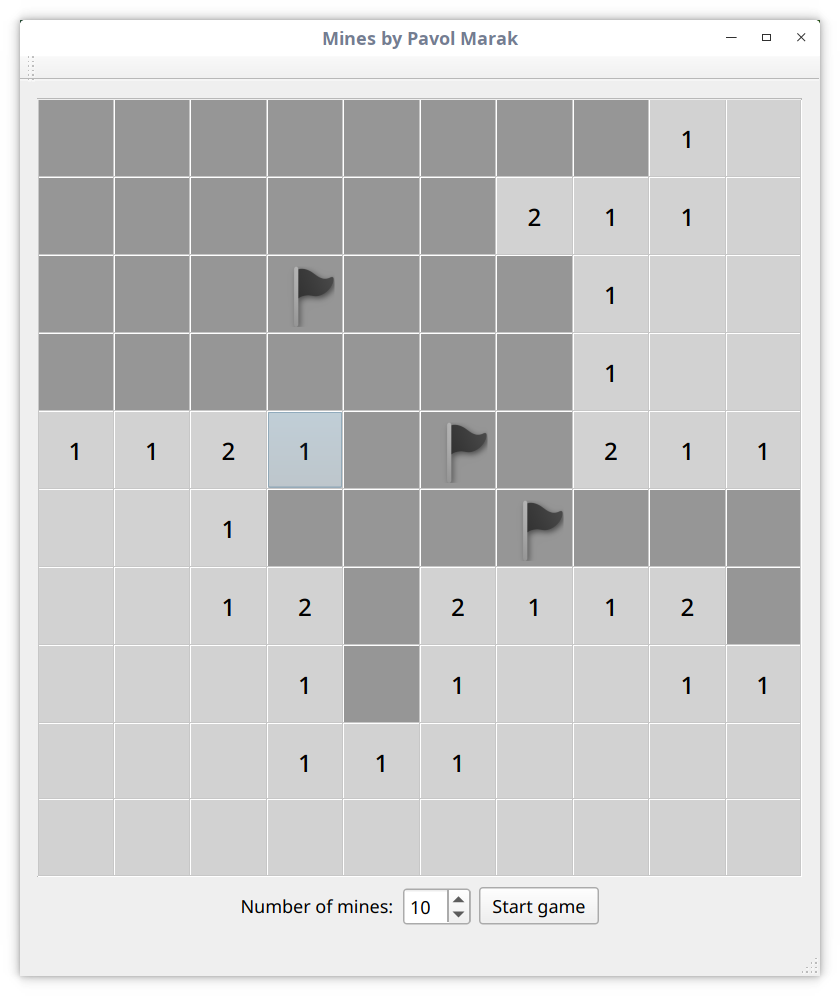
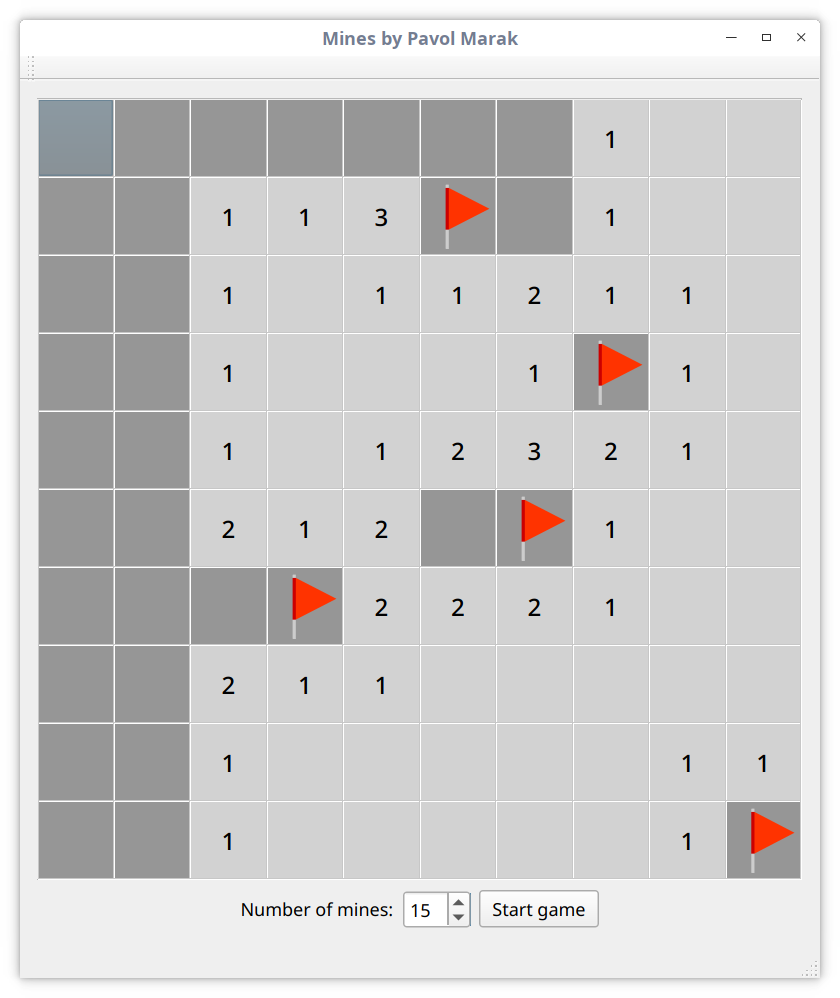
Game is now fully playable, but for now it supports only 10x10 grid size.

diff --git a/mines.cpp b/mines.cpp
@@ -11,6 +11,11 @@ Mines::Mines(QWidget *parent) :
     ui(new Ui::Mines)
 {
     ui->setupUi(this);
+    QObject::connect(this,
+                     SIGNAL(cellsRevealedAutomatically(int)),
+                     ui->tableWidget,
+                     SLOT(cellsRevealedAutomaticallySlot(int)));
+
     ui->tableWidget->setVisible(false);
     this->ready = false;
     for(int j=0; j< ui->tableWidget->rowCount();j++){
@@ -27,7 +32,7 @@ Mines::Mines(QWidget *parent) :
         for(int i=0; i<ui->tableWidget->columnCount();i++){
             ui->tableWidget->setItem(j,i,new QTableWidgetItem(""));
             ui->tableWidget->item(j,i)->setBackgroundColor(QColor(150,150,150));
-            ui->tableWidget->item(j,i)->setWhatsThis("false");
+            ui->tableWidget->item(j,i)->setWhatsThis("noflag-nomine-novisit");
         }
     }
     qApp->processEvents();
@@ -53,6 +58,7 @@ void Mines::placeMines(int count)
         QPoint point(qrand()%ui->tableWidget->columnCount(), qrand()%ui->tableWidget->rowCount());
         this->mines.insert(point);
         this->grid[point.y()+1][point.x()+1]=MINE;
+        ui->tableWidget->item(point.y(),point.x())->setWhatsThis("noflag-mine-novisit");
         qDebug() << no++ << " : " << point;
     }
 }
@@ -99,6 +105,7 @@ void Mines::clearVisibleGrid()
 {
     for(int i=0; i< ui->tableWidget->rowCount();i++){
         for(int j=0; j<ui->tableWidget->columnCount();j++){
+            ui->tableWidget->item(i,j)->setWhatsThis("noflag-nomine-novisit");
             if(ui->tableWidget->cellWidget(i,j)){
                 ui->tableWidget->removeCellWidget(i,j);
             }
@@ -112,36 +119,53 @@ void Mines::clearVisibleGrid()
 
 void Mines::revealEmptyArea(int row, int col)
 {
-    QList<QPoint> emptyCells;
-    QList<QPoint> visitedCells;
-    emptyCells.push_back(QPoint(col,row));
+    QList<QPoint> unvisitedEmptyCells;
+    QList<QPoint> visitedEmptyCells;
+    unvisitedEmptyCells.push_back(QPoint(col,row));
     int new_row, new_col;
     int complexity = 0;
-    while(!emptyCells.isEmpty()){
+    int emptyCellsNo=0;
+    int unvisitedCellsNo=0;
+    while(!unvisitedEmptyCells.isEmpty()){
+        // exploring 8-connected neighborhood of the selected empty cell
         for(int i = 0; i < 3; i++){
             for(int j = 0; j < 3; j++){
-                if(visitedCells.indexOf(emptyCells.first())==-1){
-                    ui->tableWidget->removeCellWidget(new_row, new_col);
-                    new_row = emptyCells.first().y()-1+i;
-                    new_col = emptyCells.first().x()-1+j;
-                    if(ui->tableWidget->item(new_row, new_col)){
+                new_row = unvisitedEmptyCells.first().y()-1+i;
+                new_col = unvisitedEmptyCells.first().x()-1+j;
+                if(ui->tableWidget->item(new_row, new_col)){
+                    // if the cell was not visited
+                    if(ui->tableWidget->item(new_row, new_col)->whatsThis() == "noflag-nomine-novisit"){
+                        qDebug() << "UNVISITED CELL FOUND: " << ++unvisitedCellsNo;
+                        ui->tableWidget->removeCellWidget(new_row, new_col); // to remove flags
+                        // check if not out of bounds
+
+                        // if another empty cell is found
+                        if(this->grid[new_row+1][new_col+1]==0 && visitedEmptyCells.indexOf(unvisitedEmptyCells.first(),0)==-1){
+                            unvisitedEmptyCells.push_back(QPoint(new_col,new_row));
+                            qDebug() << "NEW EMPTY CELL FOUND: " << ++emptyCellsNo;
+
+                        }
                         this->makeItemVisible(new_row, new_col);
                         qApp->processEvents();
-                        if(this->grid[new_row+1][new_col+1]==0){
-                            emptyCells.push_back(QPoint(new_col,new_row));
-                        }
+                        complexity++;
                     }
                 }
             }
         }
-        complexity++;
-        visitedCells.push_back(emptyCells.first());
-        emptyCells.removeFirst();
+
+        // put the current empty cell to the list of visited empty cells
+        visitedEmptyCells.push_back(unvisitedEmptyCells.first());
+        // remove the current empty cell from the list of unvisited empty cells
+        unvisitedEmptyCells.removeFirst();
     }
+
+    qDebug() << "Sending complexity: " << complexity;
+    emit cellsRevealedAutomatically(complexity);
 }
 
 void Mines::makeItemVisible(int row, int col)
 {
+    ui->tableWidget->item(row, col)->setWhatsThis("noflag-nomine-visit");
     if(this->grid[row+1][col+1]>0){
         ui->tableWidget->item(row, col)->setText(QString::number(this->grid[row+1][col+1]));
     }
@@ -150,9 +174,20 @@ void Mines::makeItemVisible(int row, int col)
     ui->tableWidget->item(row, col)->setBackgroundColor(QColor(210,210,210));
 }
 
+void Mines::clearEverything()
+{
+    for(int i=0; i < GRID_HEIGHT; i++){
+        for(int j=0; j < GRID_WIDTH; j++){
+            this->grid[i+1][j+1]=-1;
+        }
+    }
+    this->clearVisibleGrid();
+}
+
 void Mines::on_tableWidget_itemClicked(QTableWidgetItem *item)
 {
     if(this->ready==true){
+        // if a user clicks on a mine game ends
         if(this->grid[item->row()+1][item->column()+1]==MINE){
             qDebug() << "MINE";
             QLabel* wi = new QLabel();
@@ -163,24 +198,24 @@ void Mines::on_tableWidget_itemClicked(QTableWidgetItem *item)
             QMessageBox::about(this, "Mines", "Game Over");
             ui->tableWidget->setEnabled(false);
         }
-        // if a user clicks on empty cell whole empty area gets revealed
+        // if a user clicks on empty cell, a whole empty area gets revealed
         else if(this->grid[item->row()+1][item->column()+1]==0){
             this->revealEmptyArea(item->row(),item->column());
         }
+        // if a user clicks on a cell with mine number, the cell is revealed
         else{
             this->makeItemVisible(item->row(), item->column());
+            ui->tableWidget->noMineCounter--;
         }
+        item->setWhatsThis("noflag-nomine-visit");
     }
 }
 
 void Mines::on_start_game_button_clicked()
 {
-    for(int i=0; i < GRID_HEIGHT; i++){
-        for(int j=0; j < GRID_WIDTH; j++){
-            this->grid[i+1][j+1]=-1;
-        }
-    }
-    this->clearVisibleGrid();
+    ui->tableWidget->mineCounter=0;
+    ui->tableWidget->noMineCounter=GRID_HEIGHT*GRID_WIDTH;
+    this->clearEverything();
     this->placeMines(ui->noMinesSpinBox->value());
     this->placeMineNumbers();
     ui->tableWidget->setEnabled(true);

diff --git a/mytable.cpp b/mytable.cpp
@@ -2,31 +2,87 @@
 
 MyTable::MyTable(QWidget *)
 {
+    this->mineCounter=0;
+    this->noMineCounter=GRID_HEIGHT*GRID_WIDTH;
+}
+
+MyTable::~MyTable()
+{
 
 }
 
-void MyTable::mousePressEvent(QMouseEvent *e)
+void MyTable::mousePressEvent(QMouseEvent *event)
 {
-    QTableWidgetItem * itClicked = this->itemAt(e->pos());
-    if(e->button()==Qt::LeftButton){
-        if(itClicked->whatsThis() == "false"){
+    QTableWidgetItem * itClicked = this->itemAt(event->pos());
+    if(event->button()==Qt::LeftButton){
+        itClicked->setSelected(false);
+        if(itClicked->whatsThis() == "noflag-nomine-novisit"){
            emit itemClicked(itClicked);
+        }
+        else if(itClicked->whatsThis() == "noflag-mine-novisit"){
+            itClicked->setWhatsThis("noflag-mine-visit");
+            emit itemClicked(itClicked);
         }
 
     }
-    else if(e->button()==Qt::RightButton){
-        if(itClicked->whatsThis() == "true"){
+    else if(event->button()==Qt::RightButton){
+        if(itClicked->whatsThis() == "flag-nomine-novisit"){
             this->removeCellWidget(itClicked->row(),itClicked->column());
-            itClicked->setWhatsThis("false");
+            itClicked->setWhatsThis("noflag-nomine-novisit");
         }
-        else{
+        else if(itClicked->whatsThis() == "flag-mine-novisit"){
+            this->removeCellWidget(itClicked->row(),itClicked->column());
+            itClicked->setWhatsThis("noflag-mine-novisit");
+            this->mineCounter--;
+        }
+        else if(itClicked->whatsThis() == "noflag-nomine-novisit"){
             QLabel* wi;
             wi = new QLabel();
             wi->setPixmap(QPixmap(qApp->applicationDirPath() + "/flag.png"));
             wi->setScaledContents(true);
             this->setCellWidget(itClicked->row(),itClicked->column(),wi);
-            itClicked->setWhatsThis("true");
+            itClicked->setWhatsThis("flag-nomine-novisit");
         }
+        // user detected a mine in the field
+        else if(itClicked->whatsThis() == "noflag-mine-novisit"){
+            QLabel* wi;
+            wi = new QLabel();
+            wi->setPixmap(QPixmap(qApp->applicationDirPath() + "/flag.png"));
+            wi->setScaledContents(true);
+            this->setCellWidget(itClicked->row(),itClicked->column(),wi);
+            itClicked->setWhatsThis("flag-mine-novisit");
+            this->mineCounter++;
+        }
+    }
+    qDebug() << "Nomines found: " << this->noMineCounter;
+    qDebug() << "Mines found: " << this->mineCounter;
+    if(this->mineCounter == this->noMineCounter){
+        qDebug() << "You made it.";
+        QMessageBox::about(this,"Congratulations", "You made it.");
+
+    }
+}
+
+void MyTable::mouseMoveEvent(QMouseEvent *event)
+{
+    QTableWidgetItem * itClicked = this->itemAt(event->pos());
+    itClicked->setSelected(false);
+}
+
+void MyTable::mouseReleaseEvent(QMouseEvent *event)
+{
+    QTableWidgetItem * itClicked = this->itemAt(event->pos());
+    itClicked->setSelected(false);
+}
+
+void MyTable::cellsRevealedAutomaticallySlot(int number)
+{
+    this->noMineCounter-=number;
+    qDebug() << "Nomines found: " << this->noMineCounter;
+    qDebug() << "Mines found: " << this->mineCounter;
+    if(this->mineCounter == this->noMineCounter){
+        qDebug() << "You made it.";
+        QMessageBox::about(this,"Congratulations", "You made it.");
     }
 
 }

diff --git a/ui_mines.h b/ui_mines.h
@@ -48,7 +48,7 @@ public:
     {
         if (Mines->objectName().isEmpty())
             Mines->setObjectName(QStringLiteral("Mines"));
-        Mines->resize(534, 614);
+        Mines->resize(534, 615);
         QSizePolicy sizePolicy(QSizePolicy::Preferred, QSizePolicy::Preferred);
         sizePolicy.setHorizontalStretch(0);
         sizePolicy.setVerticalStretch(0);
@@ -122,7 +122,7 @@ public:
         tableWidget->setVerticalScrollBarPolicy(Qt::ScrollBarAsNeeded);
         tableWidget->setHorizontalScrollBarPolicy(Qt::ScrollBarAsNeeded);
         tableWidget->setSizeAdjustPolicy(QAbstractScrollArea::AdjustToContentsOnFirstShow);
-        tableWidget->setSelectionMode(QAbstractItemView::NoSelection);
+        tableWidget->setSelectionMode(QAbstractItemView::SingleSelection);
         tableWidget->setSelectionBehavior(QAbstractItemView::SelectItems);
         tableWidget->setTextElideMode(Qt::ElideNone);
         tableWidget->setCornerButtonEnabled(false);

diff --git a/mines.h b/mines.h
@@ -26,6 +26,8 @@ class Mines : public QMainWindow
 public:
     explicit Mines(QWidget *parent = 0);
     ~Mines();
+signals:
+    void cellsRevealedAutomatically(int number);
 
 private slots:
     void on_tableWidget_itemClicked(QTableWidgetItem *item);
@@ -40,8 +42,10 @@ private:
     void clearVisibleGrid();
     void revealEmptyArea(int row, int col);
     void makeItemVisible(int row, int col);
-    // mines are modelled as QPoints
+    void clearEverything();
+    // mines and flags are represented as QPoints
     QSet<QPoint> mines;
+    QSet<QPoint> flags;
     int grid[GRID_HEIGHT+2][GRID_WIDTH+2] = {{-1}};
     bool ready;
 };

diff --git a/mytable.h b/mytable.h
@@ -8,13 +8,25 @@
 #include <QDebug>
 #include <QLabel>
 #include <QDir>
+#include <QMessageBox>
+
+#define GRID_WIDTH 10
+#define GRID_HEIGHT 10
 
 class MyTable : public QTableWidget
 {
+    Q_OBJECT
 public:
     MyTable(QWidget*);
+    virtual ~MyTable();
+    int mineCounter;
+    int noMineCounter;
 private slots:
     void mousePressEvent(QMouseEvent* e);
+    void mouseMoveEvent(QMouseEvent *event);
+    void mouseReleaseEvent(QMouseEvent *event);
+public slots:
+    void cellsRevealedAutomaticallySlot(int);
 private:
 
 };
